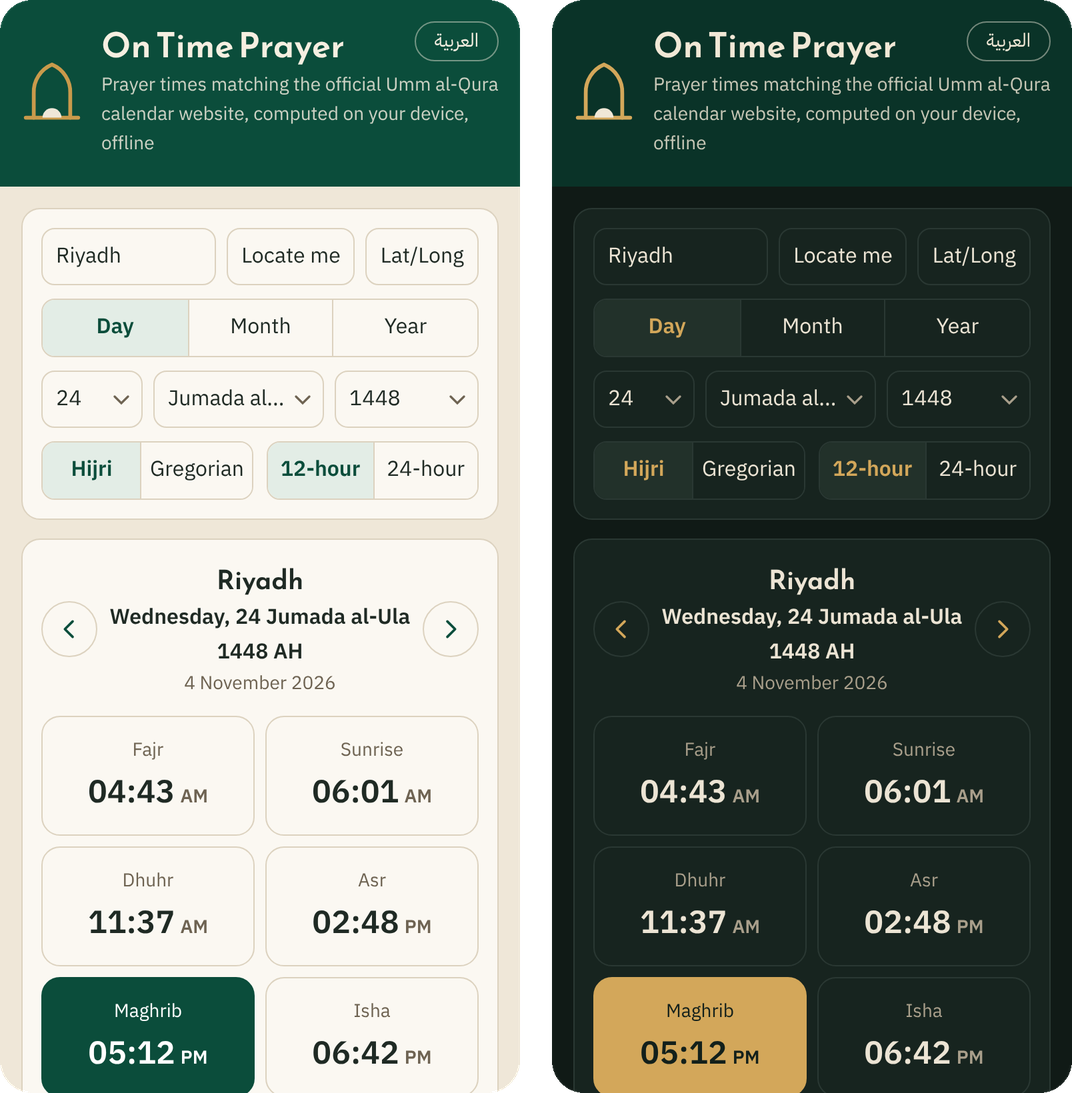
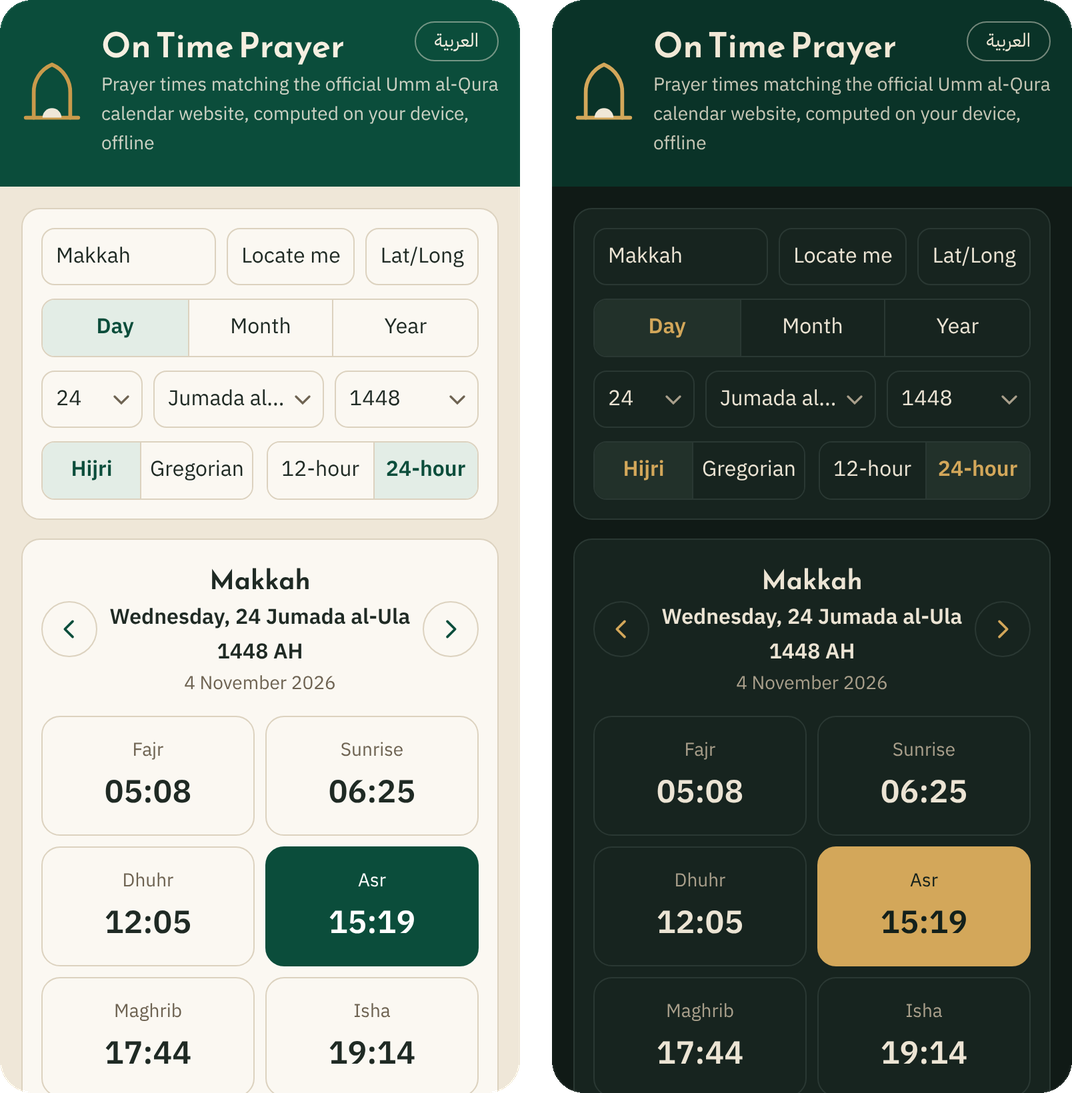
Makkah and Madinah in English; README screenshots show Makkah in both languages; English bisection diagram

diff --git a/site/index.html b/site/index.html
@@ -353,7 +353,7 @@ if (typeof module !== 'undefined' && module.exports) module.exports = api; else 
 </script>
 <script>
 const CITIES = [[1001,1001,"الرياض",24.67,46.69,1],[9,1001,"الأفلاج",22.22,46.656,0],[150,1001,"الحائر",24.404568,46.839516,0],[23,1001,"الحريق",23.62,46.52,0],[28,1001,"الخرج",24.15,47.32,0],[4,1001,"الدرعية",24.74,46.58,0],[151,1001,"الدلم",23.99649,47.138344,0],[64,1001,"الدوادمي",24.5,44.38,0],[49,1001,"الزلفي",26.3,44.82,0],[48,1001,"السليل",20.47,45.57,0],[191,1001,"العيينة",24.9018,46.3865,0],[19,1001,"الغاط",26.03,44.95,0],[22,1001,"القويعية",24.05,45.25,0],[85,1001,"المجمعة",25.9,45.34,0],[87,1001,"المزاحمية",24.48,46.29,0],[185,1001,"تمير",25.7134,45.8707,0],[112,1001,"ثادق",25.28,45.86,0],[186,1001,"جلاجل",25.6834,45.4592,0],[72,1001,"حريملاء",25.11,46.1,0],[71,1001,"حوطة بني تميم",23.49,46.86,0],[187,1001,"حوطة سدير",25.5947,45.6184,0],[95,1001,"رماح",25.56,47.17,0],[188,1001,"روضة سدير",25.6187,45.5543,0],[193,1001,"سدوس",24.993744,46.207878,0],[105,1001,"شقراء",25.26,45.26,0],[62,1001,"ضرماء",24.6,46.13,0],[5,1001,"عفيف",23.91,42.92,0],[190,1001,"ليلى",22.2899,46.7188,0],[152,1001,"مرات",25.0699,45.4639,0],[192,1001,"ملهم",25.1625,46.3337,0],[116,1001,"وادي الدواسر",20.4722,44.783,0],[197,1001,"الرين",23.542,45.5159,0],[1002,1002,"مكة المكرمة",21.426666,39.831666,1],[154,1002,"أضم",20.423,40.8624,0],[26,1002,"الجموم",21.63,39.7,0],[29,1002,"الخرمة",21.91,42.02,0],[109,1002,"الطائف",21.25,40.4,0],[157,1002,"العرضيات",19.41604388,41.74531637,0],[66,1002,"القنفذة",19.13,41.08,0],[27,1002,"الكامل",22.26,39.79,0],[30,1002,"الليث",20.15,40.28,0],[114,1002,"تربة",21.23,41.65,0],[189,1002,"ثول",22.2758,39.1132,0],[74,1002,"جدة",21.5,39.17,0],[82,1002,"خليص",22.11,39.31,0],[194,1002,"ذهبان",21.9309,39.116,0],[93,1002,"رابغ",22.79,39.03,0],[96,1002,"رنية",21.28,42.82,0],[155,1002,"ميسان",20.74756002,40.85031999,0],[198,1002,"المويه",22.4341,41.7615,0],[199,1002,"بحرة",21.4023,39.4631,0],[1003,1003,"المدينة المنورة",24.54,39.63,1],[25,1003,"الحناكية",24.88,40.52,0],[38,1003,"العلا",26.55,37.96,0],[158,1003,"العيص",25.0598,38.1167,0],[50,1003,"بدر",23.78,38.8,0],[77,1003,"خيبر",25.71,39.28,0],[31,1003,"مهد الذهب",23.52,40.89,0],[118,1003,"ينبع",24.09,38.07,0],[200,1003,"وادي الفرع",23.3127,39.7776,0],[1004,1004,"بريدة",26.35,43.96,1],[14,1004,"الأسياح",26.77,44.22,0],[15,1004,"البدائع",26,43.73,0],[17,1004,"البكيرية",26.15,43.67,0],[195,1004,"البصر",26.2888,43.8612,0],[42,1004,"الرس",25.86,43.48,0],[107,1004,"الشماسية",26.3189,44.2574,0],[33,1004,"المذنب",25.87,44.21,0],[46,1004,"النبهانية",25.94,42.95,0],[100,1004,"رياض الخبراء",26.04,43.55,0],[160,1004,"ضرية",24.7225,42.9327,0],[159,1004,"عقلة الصقور",25.8311,42.1879,0],[89,1004,"عنيزة",26.09,43.97,0],[90,1004,"عيون الجواء",26.51,43.62,0],[196,1004,"القوارة",26.7716,43.4742,0],[201,1004,"أبانات",25.5057,42.8464,0],[1005,1005,"الدمام",26.44,50.1,1],[75,1005,"الجبيل",27,49.66,0],[80,1005,"الخبر",26.26,50.21,0],[76,1005,"الخفجي",28.42,48.49,0],[161,1005,"الظهران",26.239291,50.040259,0],[91,1005,"القطيف",26.56,50,0],[165,1005,"المبرز",25.405807,49.548469,0],[37,1005,"النعيرية",27.47,48.47,0],[10,1005,"الهفوف",25.408,49.6132,0],[2,1005,"بقيق",25.93,49.66,0],[164,1005,"تاروت",26.57110001,50.07269982,0],[68,1005,"حفر الباطن",28.4,45.97,0],[97,1005,"رأس تنورة",26.71,50.07,0],[8,1005,"قرية العليا",27.56,47.7,0],[202,1005,"الأحساء",24.1389,49.4277,0],[203,1005,"العديد",24.147,50.919,0],[204,1005,"البيضاء",26.361417,49.969591,0],[209,1005,"راس تنورة",26.7065,50.0528,0],[1006,1006,"أبها",18.22,42.51,1],[7,1006,"أحد رفيدة",18.17,42.84,0],[170,1006,"الأمواه",18.7141,43.6591,0],[171,1006,"البرك",18.2071,41.5363,0],[169,1006,"الحرجة",17.9204,43.3729,0],[34,1006,"المجاردة",19.13,41.93,0],[36,1006,"النماص",19.14,42.14,0],[166,1006,"بارق",18.9305,41.9296,0],[55,1006,"بلقرن",19.57,41.96,0],[56,1006,"بيشة",20,42.6,0],[110,1006,"تثليث",19.55,43.52,0],[167,1006,"تنومة",18.929,42.177,0],[78,1006,"خميس مشيط",18.31,42.73,0],[98,1006,"رجال ألمع",18.23,42.28,0],[104,1006,"سراة عبيدة",18.08,43.14,0],[168,1006,"طريب",18.5667607,43.20690401,0],[60,1006,"ظهران الجنوب",17.69,43.51,0],[84,1006,"محايل عسير",18.54,42.05,0],[205,1006,"الفرشة",17.7532,43.1529,0],[1007,1007,"تبوك",28.4,36.58,1],[45,1007,"أملج",25.03,37.26,0],[44,1007,"الوجه",26.23,36.47,0],[111,1007,"تيماء",28.63,38.55,0],[70,1007,"حقل",29.3,34.95,0],[59,1007,"ضباء",27.35,35.69,0],[206,1007,"البدع",28.473,35.0278,0],[1008,1008,"حائل",27.52,41.7,1],[173,1008,"الحائط",25.9933,40.4669,0],[174,1008,"السليمي",26.2896,41.3661,0],[177,1008,"الشملي",26.858595,40.328537,0],[43,1008,"الشنان",27.17,42.44,0],[20,1008,"الغزالة",26.79,41.32,0],[54,1008,"بقعاء",27.9,42.4,0],[176,1008,"سميراء",26.49941,42.12939001,0],[175,1008,"موقق",27.378545,41.179762,0],[1009,1009,"عرعر",30.99,41.02,1],[178,1009,"العويقلية",30.361771,42.250924,0],[94,1009,"رفحاء",29.63,43.5,0],[115,1009,"طريف",31.68,38.66,0],[1010,1010,"جازان",16.89,42.54,1],[3,1010,"أبو عريش",16.97,42.83,0],[6,1010,"أحد المسارحة",16.7,42.95,0],[24,1010,"الحرث",16.78,43.22,0],[18,1010,"الدائر",17.34,43.14,0],[39,1010,"الدرب",17.71,42.09,0],[41,1010,"الريث",17.6,42.86,0],[181,1010,"الطوال",16.528,42.9685,0],[13,1010,"العارضة",17.04,43.09,0],[11,1010,"العيدابي",17.24,42.95,0],[52,1010,"بيش",17.378,42.538,0],[65,1010,"جزر فرسان",16.71,42.12,0],[103,1010,"صامطة",16.59,42.94,0],[101,1010,"صبيا",17.15,42.62,0],[61,1010,"ضمد",17.1,42.78,0],[179,1010,"فيفاء",17.2473,43.1069,0],[180,1010,"هروب",17.435,42.8857,0],[1011,1011,"نجران",17.52,44.2,1],[79,1011,"الخرخير",18.85,51.819,0],[51,1011,"بدر الجنوب",17.88,43.72,0],[113,1011,"ثار",17.97,44.11,0],[67,1011,"حبونا",17.85,43.02,0],[81,1011,"خباش",17.6,45.066,0],[106,1011,"شرورة",17.49,47.11,0],[117,1011,"يدمة",18.53,44.21,0],[1012,1012,"الباحة",20.01,41.47,1],[182,1012,"الحجرة",20.1954,41.0722,0],[12,1012,"العقيق",20.27,41.66,0],[40,1012,"القرى",20.25,41.36,0],[32,1012,"المخواة",19.78,41.43,0],[35,1012,"المندق",20.16,41.29,0],[53,1012,"بلجرشي",19.86,41.57,0],[183,1012,"غامد الزناد",19.6033,41.4813,0],[92,1012,"قلوة",19.95,41.24,0],[207,1012,"بني حسن",20.051578,41.37405,0],[1013,1013,"سكاكا",29.97,40.2,1],[21,1013,"القريات",31.33,37.34,0],[63,1013,"دومة الجندل",29.81,39.87,0],[184,1013,"طبرجل",30.50098005,38.22183997,0],[208,1013,"صوير",30.1147,40.3803,0]];   // [id, region_id, name_ar, lat, lon, capital]
-const CITY_EN = {"1001":"Riyadh","9":"Al Aflaj","150":"Al Hayr","23":"Al Hariq","28":"Al Kharj","4":"Ad Diriyah","151":"Ad Dilam","64":"Al Duwadimi","49":"Az Zulfi","48":"As Sulayyil","191":"Al Uyaynah","19":"Al Ghat","22":"Al Quwaiiyah","85":"Al Majmaah","87":"Al Muzahimiyah","185":"Tumair","112":"Thadig","186":"Jalajil","72":"Huraymila","71":"Howtat Bani Tamim","187":"Hawtat Sudayr","95":"Rumah","188":"Rawdat Sudayr","193":"Sudus","105":"Shagra","62":"Dhurma","5":"Afif","190":"Layla","152":"Marat","192":"Malham","116":"Wadi ad-Dawasir","197":"Ar Rayn","1002":"Mecca","154":"Adham","26":"Al Jumum","29":"Al Khurma","109":"Taif","157":"Al Ardhiyat","66":"Al Qunfudhah","27":"Al Kamil","30":"Al Lith","114":"Turbah","189":"Thuwal","74":"Jeddah","82":"Khulais","194":"Dhahban","93":"Rabigh","96":"Ranyah","155":"Maysan","198":"Al Muwayh","199":"Bahrah","1003":"Medina","25":"Al Henakiyah","38":"Al Ula","158":"Al 'Is","50":"Badr","77":"Khaybar","31":"Mahd Al Thahab","118":"Yanbu","200":"Wadi Al Fara","1004":"Buraydah","14":"Alasyah","15":"Al Badayea","17":"Al Bukayriyah","195":"Al Busur","42":"Ar Rass","107":"Ash Shimasiyah","33":"Al Mithnab","46":"An Nabhaniyah","100":"Riyadh Al Khabra","160":"Dariyah","159":"Uqlat As Suqur","89":"Unayzah","90":"Uyun Al Jawa","196":"Al Quwarah","201":"Abanat","1005":"Dammam","75":"Al Jubail","80":"Al Khobar","76":"Khafji","161":"Dhahran","91":"Al Qatif","165":"Al Mubarraz","37":"Nairyah","10":"Al Hofuf","2":"Abqaiq","164":"Tarut","68":"Hafar Al Batin","97":"Ras Tanura","8":"Qaryat Al Ulya","202":"Al Ahsa","203":"Al Udayd","204":"Al Bayda","209":"Ras Tannurah","1006":"Abha","7":"Ahad Rafidah","170":"Al Amwah","171":"Al Birk","169":"Al Harajah","34":"Almajaridah","36":"Al Namas","166":"Bariq","55":"Belqarn","56":"Bishah","110":"Tathleeth","167":"Tanumah","78":"Khamis Mushait","98":"Rojal","104":"Sarat Abidah","168":"Tarib","60":"Dhahran Al Janub","84":"Muhayil","205":"Al Farshah","1007":"Tabuk","45":"Umluj","44":"Al Wajh","111":"Tayma","70":"Haql","59":"Duba","206":"Al Bada","1008":"Hail","173":"Al Hait","174":"As Sulaymi","177":"Ash Shamli","43":"Ash Shinan","20":"Al Ghazalah","54":"Baqaa","176":"Simira'","175":"Mawqaq","1009":"Arar","178":"Al 'Uwayqiliyah","94":"Rafha","115":"Turaif","1010":"Jazan","3":"Abu Arish","6":"Ahad Al Masarihah","24":"Alharth","18":"Addayer","39":"Aldarb","41":"Al Reeth","181":"At Tuwal","13":"Al Aridhah","11":"Al Edabi","52":"Baish","65":"Farasan Island","103":"Samtah","101":"Sabya","61":"Damad","179":"Fayfa","180":"Harub","1011":"Najran","79":"Al Kharkhir","51":"Badr Al Janoub","113":"Thar","67":"Hubuna","81":"Khbash","106":"Sharorah","117":"Yadamah","1012":"Al Bahah","182":"Al Hajrah","12":"Al Aqiq","40":"Alqura","32":"Al Makhwah","35":"Almandaq","53":"Baljurashi","183":"Ghamid Az Zinad","92":"Qilwah","207":"Bani Hasan","1013":"Sakaka","21":"Al Qurayyat","63":"Dumah Al Jandal","184":"Tubarjal","208":"Suwayr"};
+const CITY_EN = {"1001":"Riyadh","9":"Al Aflaj","150":"Al Hayr","23":"Al Hariq","28":"Al Kharj","4":"Ad Diriyah","151":"Ad Dilam","64":"Al Duwadimi","49":"Az Zulfi","48":"As Sulayyil","191":"Al Uyaynah","19":"Al Ghat","22":"Al Quwaiiyah","85":"Al Majmaah","87":"Al Muzahimiyah","185":"Tumair","112":"Thadig","186":"Jalajil","72":"Huraymila","71":"Howtat Bani Tamim","187":"Hawtat Sudayr","95":"Rumah","188":"Rawdat Sudayr","193":"Sudus","105":"Shagra","62":"Dhurma","5":"Afif","190":"Layla","152":"Marat","192":"Malham","116":"Wadi ad-Dawasir","197":"Ar Rayn","1002":"Makkah","154":"Adham","26":"Al Jumum","29":"Al Khurma","109":"Taif","157":"Al Ardhiyat","66":"Al Qunfudhah","27":"Al Kamil","30":"Al Lith","114":"Turbah","189":"Thuwal","74":"Jeddah","82":"Khulais","194":"Dhahban","93":"Rabigh","96":"Ranyah","155":"Maysan","198":"Al Muwayh","199":"Bahrah","1003":"Madinah","25":"Al Henakiyah","38":"Al Ula","158":"Al 'Is","50":"Badr","77":"Khaybar","31":"Mahd Al Thahab","118":"Yanbu","200":"Wadi Al Fara","1004":"Buraydah","14":"Alasyah","15":"Al Badayea","17":"Al Bukayriyah","195":"Al Busur","42":"Ar Rass","107":"Ash Shimasiyah","33":"Al Mithnab","46":"An Nabhaniyah","100":"Riyadh Al Khabra","160":"Dariyah","159":"Uqlat As Suqur","89":"Unayzah","90":"Uyun Al Jawa","196":"Al Quwarah","201":"Abanat","1005":"Dammam","75":"Al Jubail","80":"Al Khobar","76":"Khafji","161":"Dhahran","91":"Al Qatif","165":"Al Mubarraz","37":"Nairyah","10":"Al Hofuf","2":"Abqaiq","164":"Tarut","68":"Hafar Al Batin","97":"Ras Tanura","8":"Qaryat Al Ulya","202":"Al Ahsa","203":"Al Udayd","204":"Al Bayda","209":"Ras Tannurah","1006":"Abha","7":"Ahad Rafidah","170":"Al Amwah","171":"Al Birk","169":"Al Harajah","34":"Almajaridah","36":"Al Namas","166":"Bariq","55":"Belqarn","56":"Bishah","110":"Tathleeth","167":"Tanumah","78":"Khamis Mushait","98":"Rojal","104":"Sarat Abidah","168":"Tarib","60":"Dhahran Al Janub","84":"Muhayil","205":"Al Farshah","1007":"Tabuk","45":"Umluj","44":"Al Wajh","111":"Tayma","70":"Haql","59":"Duba","206":"Al Bada","1008":"Hail","173":"Al Hait","174":"As Sulaymi","177":"Ash Shamli","43":"Ash Shinan","20":"Al Ghazalah","54":"Baqaa","176":"Simira'","175":"Mawqaq","1009":"Arar","178":"Al 'Uwayqiliyah","94":"Rafha","115":"Turaif","1010":"Jazan","3":"Abu Arish","6":"Ahad Al Masarihah","24":"Alharth","18":"Addayer","39":"Aldarb","41":"Al Reeth","181":"At Tuwal","13":"Al Aridhah","11":"Al Edabi","52":"Baish","65":"Farasan Island","103":"Samtah","101":"Sabya","61":"Damad","179":"Fayfa","180":"Harub","1011":"Najran","79":"Al Kharkhir","51":"Badr Al Janoub","113":"Thar","67":"Hubuna","81":"Khbash","106":"Sharorah","117":"Yadamah","1012":"Al Bahah","182":"Al Hajrah","12":"Al Aqiq","40":"Alqura","32":"Al Makhwah","35":"Almandaq","53":"Baljurashi","183":"Ghamid Az Zinad","92":"Qilwah","207":"Bani Hasan","1013":"Sakaka","21":"Al Qurayyat","63":"Dumah Al Jandal","184":"Tubarjal","208":"Suwayr"};
 // ---------- languages ----------
 const L = {
   ar: {
@@ -393,7 +393,7 @@ const L = {
     names: { fajr: 'Fajr', sunrise: 'Sunrise', dhuhr: 'Dhuhr', asr: 'Asr', maghrib: 'Maghrib', isha: 'Isha' },
     hm: ['Muharram', 'Safar', "Rabi' al-Awwal", "Rabi' al-Thani", 'Jumada al-Ula', 'Jumada al-Akhirah', 'Rajab', "Sha'ban", 'Ramadan', 'Shawwal', "Dhu al-Qa'dah", 'Dhu al-Hijjah'],
     gm: ['January', 'February', 'March', 'April', 'May', 'June', 'July', 'August', 'September', 'October', 'November', 'December'],
-    regions: { 1001: 'Riyadh', 1002: 'Mecca', 1003: 'Medina', 1004: 'Qassim', 1005: 'Eastern Province', 1006: 'Asir', 1007: 'Tabuk',
+    regions: { 1001: 'Riyadh', 1002: 'Makkah', 1003: 'Madinah', 1004: 'Qassim', 1005: 'Eastern Province', 1006: 'Asir', 1007: 'Tabuk',
       1008: 'Hail', 1009: 'Northern Borders', 1010: 'Jazan', 1011: 'Najran', 1012: 'Al Bahah', 1013: 'Al Jawf' },
     wk: 'en-GB', coll: 'en',
     footer: 'Times are in Saudi time and are computed with an open formula reconstructed from the outputs of the official Umm al-Qura calendar website, checked against more than 14 million times. To verify: <a href="https://www.ummulqura.org.sa/ar/prayer-times" target="_blank" rel="noopener">the official Umm al-Qura calendar website</a>. This website is unofficial and is not affiliated with any official body.'

diff --git a/README.en.md b/README.en.md
@@ -80,7 +80,7 @@ Moving one degree east makes every time about four minutes earlier, so moving th
 time by a tiny fraction of a second. We pick a time, find two longitudes where the server shows two different minutes, and halve
 the interval again and again.
 
-<p align="center"><img src="docs/assets/bisection.svg" width="640" alt="Each request to the server halves the interval until the moment the minute changes is found"></p>
+<p align="center"><img src="docs/assets/bisection-en.svg" width="640" alt="Each request to the server halves the interval until the moment the minute changes is found"></p>
 
 After about 14 requests we know where the minute changes, which gives the server's own time to within a fraction of a
 millisecond; we then compare that with the model. All data come from the official Umm al-Qura calendar website: complete exports for 173 Saudi cities,
